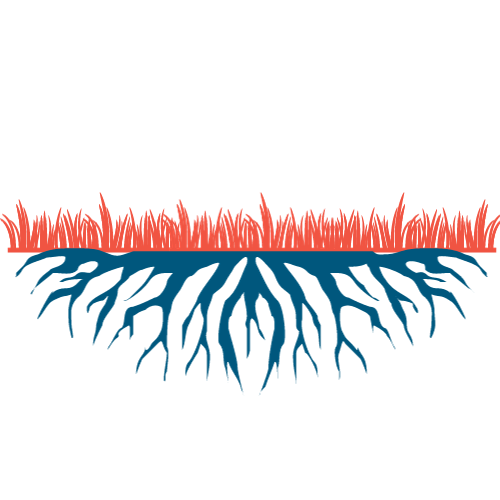
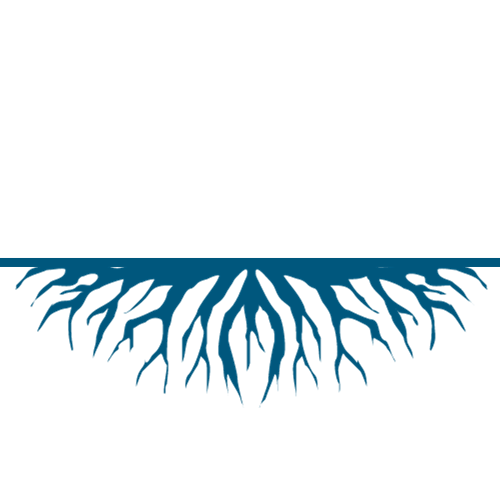
added main animation

Changed region(s): [[0.0, 0.39, 1.0, 0.81]]

diff --git a/styles.css b/styles.css
@@ -41,14 +41,15 @@ h3{
 .animation{
     display: flex;
     justify-content: center;
-    margin:140px 0 100px;
+    align-items: center;
+    margin:-40px 0 100px;
 }
 
 .circle{
     border-radius: 100%;
     width:55px;
     height:55px;
-    border: 9px solid #00577d;
+    border: 5px solid #00577d;
     display: flex;
     align-items: center;
     justify-content: center;
@@ -56,41 +57,40 @@ h3{
 
 .inner-circle{
     border-radius: 100%;
-    background-color: #F05442;
+    border: 5px solid #F05442;
 }
 
 .inner-circle1{
     width:20px;
     height:20px;
-    animation: circleGrow 1s 2s 1;
+    animation: circleGrow 2s 1s 1;
 }
 
 .inner-circle2{
     width:25px;
     height:25px;
-    animation: circleGrow 1s 3s 1;
+    animation: circleGrow 2s 3s 1;
 }
 
 .inner-circle3{
     width:30px;
     height:30px;
-    animation: circleGrow 1s 4s 1;
+    animation: circleGrow 2s 5s 1;
 }
 
-.line{
+.ground{
+    visibility: hidden;
+   width:30%;
+   margin-top:-15px;
+   animation: lineShow 2s ease-in 2s forwards;
+}
+
+.crops{
+    visibility: hidden;
     width:30%;
-    background-color: #00577d;
-    height:9px;
-    margin-top:30px;
-    z-index: 1;
-}
-
-.grass{
-   width:300px;
-   /* position:absolute; 
-   left:25%;
-   top:45%; */
-   z-index: -1;
+    margin-top:-30px;
+    animation: lineShow 2s ease-in 4s forwards;
+    animation: name duration timing-function delay iteration-count direction fill-mode;
 }
 
 /* Picture Section */
@@ -122,6 +122,7 @@ img{
     100%{}
 }
 
-@keyframes lineMove {
-    
+@keyframes lineShow {
+    0%{visibility: hidden;}
+    100%{visibility: visible;}
 }

diff --git a/index.html b/index.html
@@ -18,12 +18,11 @@
         <div class="circle circle1">
             <div class="inner-circle inner-circle1"></div>
         </div>
-        <img class='grass' src="images/1.png" alt="grass">
-        <div class="line"></div>
+        <img class='ground' src="images/1.png" alt="ground">
         <div class="circle circle2">
             <div class="inner-circle inner-circle2"></div>
         </div>
-        <div class="line"></div>
+        <img class='crops' src="images/2.png" alt="crops">
         <div class="circle circle3">
             <div class="inner-circle inner-circle3"></div>
         </div>
